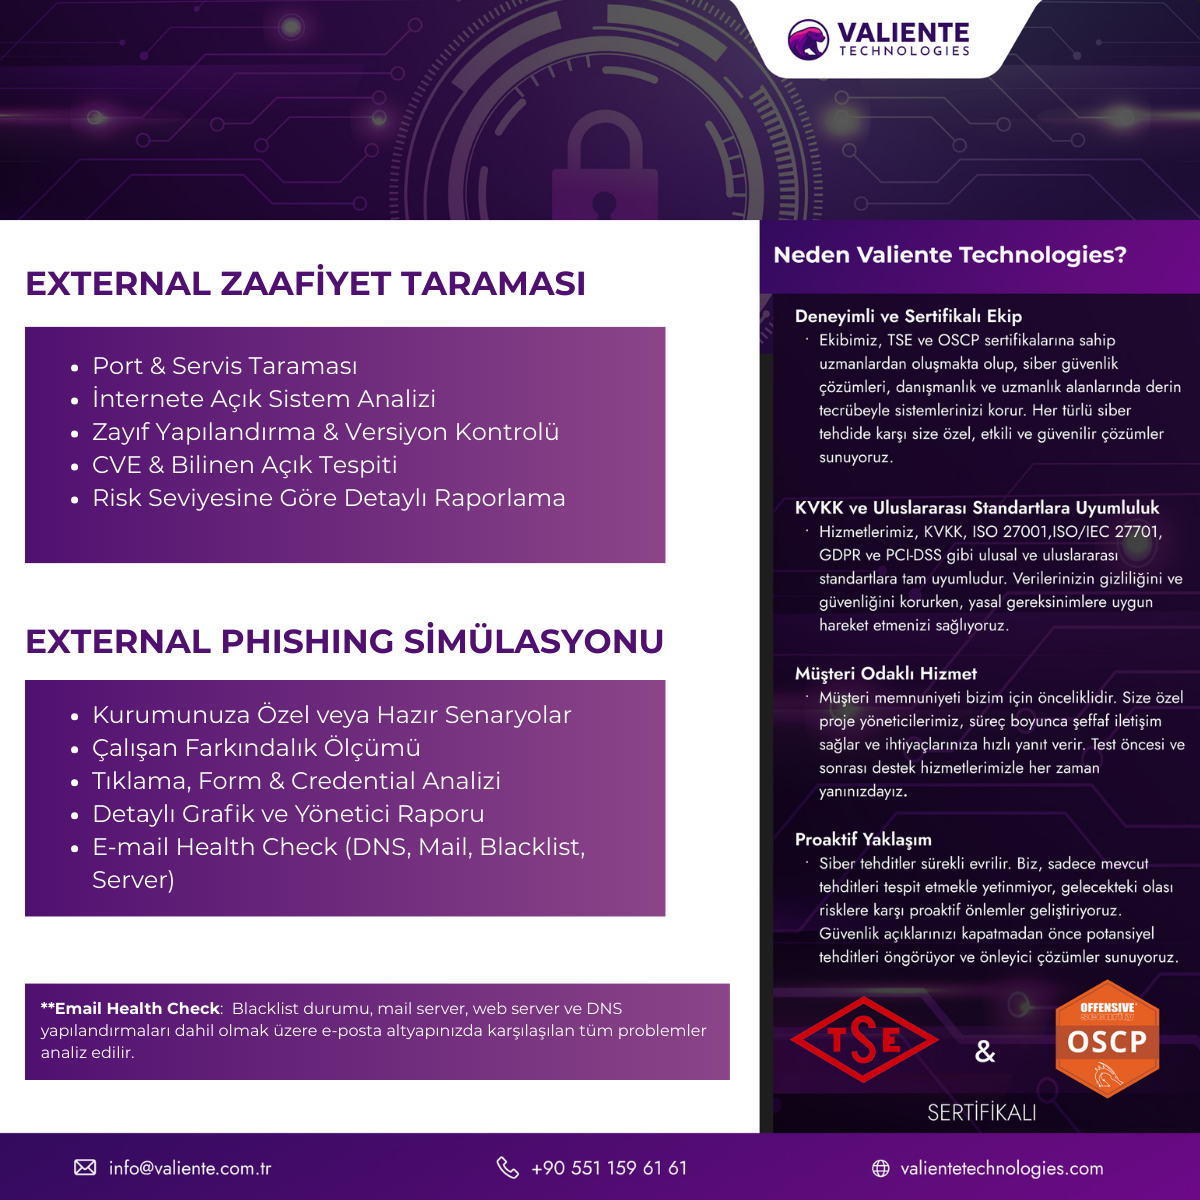
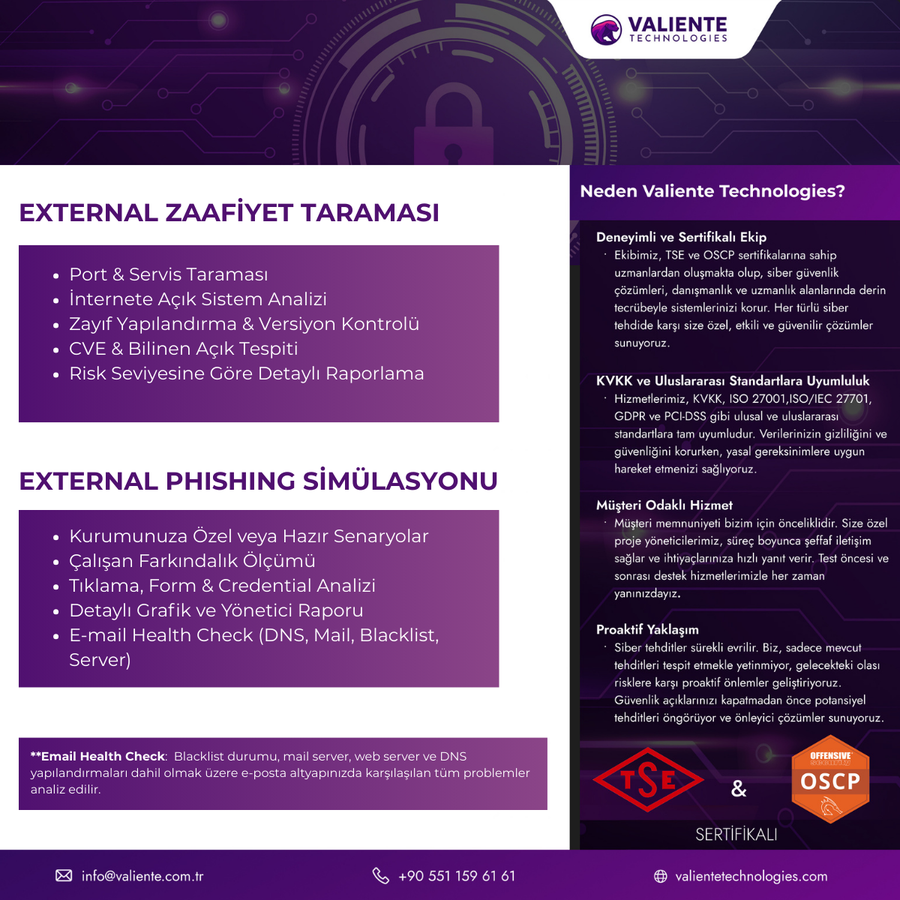
fix: keep the original portfolio WebP files and match the PNG fallbacks to them
The pre-commit hook regenerated the three portfolio WebP images from the
resized PNG fallbacks at 1131x1600, 70% larger than the 900px originals
that browsers actually download. The originals are restored, the PNG
fallbacks are resized to the same 900px dimensions (1.0 MB, 0.9 MB and
0.6 MB), the width and height attributes match, and the WebP the hook
generated from the touch icon is removed. Committed with the hook
skipped so it does not convert the PNGs again.

diff --git a/_includes/sections/modals.html b/_includes/sections/modals.html
@@ -22,11 +22,11 @@
               <!-- Project Details Go Here -->
               <h2 class="text-uppercase">{{ project.title }}</h2>
               <p class="item-intro text-muted">{{ project.subtitle }}</p>
-              {%- assign brochure_img_w = 1200 -%}
-              {%- assign brochure_img_h = 1200 -%}
+              {%- assign brochure_img_w = 900 -%}
+              {%- assign brochure_img_h = 900 -%}
               {%- if project.image contains 'backup.png' or project.image contains 'pentest.png' -%}
-                {%- assign brochure_img_w = 1131 -%}
-                {%- assign brochure_img_h = 1600 -%}
+                {%- assign brochure_img_w = 900 -%}
+                {%- assign brochure_img_h = 1273 -%}
               {%- endif -%}
               <picture>
                 <source srcset="{{ project.image | replace: '.png', '.webp' }}" type="image/webp">
